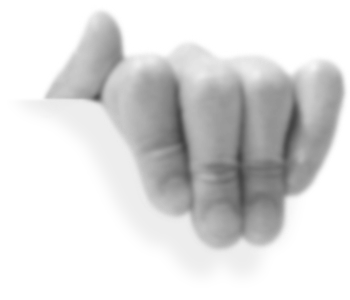
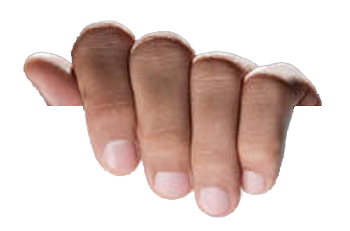
added hands and styling

diff --git a/index.html b/index.html
@@ -33,9 +33,14 @@
       </ul>
     </div>
 
-    <div class="parallax-container" data-parallax="scroll" data-bleed="10" data-speed="0.2" data-image-src="./img/nebula.jpg" data-natural-width="1400" data-natural-height="1400" style="height: 70vh;"></div>
+    <div class="parallax-container" data-parallax="scroll" data-bleed="10" data-speed="0.2" data-image-src="./img/top-half.jpg" data-natural-width="1024" data-natural-height="400" style="height: 70vh;"></div>
 
     <section class="container">
+      <div class="hands-container">
+        <img class="hands hand-right"src="img/hand-right.png" alt="">
+        <img class="hands hand-left"src="img/hand-left.png" alt="">
+      </div>
+
       <div class="content content-block">
 
         <div class="title-block">
@@ -159,7 +164,7 @@
       </div>
 
     </section>
-    <div class="parallax-container" data-parallax="scroll" data-bleed="10" data-speed="0.2" data-image-src="./img/nebula.jpg" data-natural-width="1400" data-natural-height="1400" style="height: 70vh;"></div>
+    <div class="parallax-container" data-parallax="scroll" data-bleed="10" data-speed="0.2" data-image-src="./img/bottom-half.jpg" data-natural-width="1024" data-natural-height="400" style="height: 70vh;"></div>
 
 
     <script src="js/ScrollMagic.min.js"></script>

diff --git a/styles.css b/styles.css
@@ -85,8 +85,6 @@ a, span, p  {
   line-height: 2em;
 }
 
-
-
 .menu-block-first {
   width: 100px;
   height: 30%;
@@ -248,6 +246,18 @@ a, span, p  {
   margin: auto;
 }
 
+.hands-container {
+  display: block;
+  margin: auto;
+  transform: translateY(-97px);
+  margin-bottom: -231px;
+
+}
+
+.hand-left {
+  float: right;
+}
+
 .title-block {
   text-align: center;
   margin: 8em 0;
@@ -264,7 +274,7 @@ a, span, p  {
 }
 
 .content-block.fade-in {
-  transform: translateY(50px);
+  transform: translateY(0px);
   opacity: 1;
   transition: all 1s ease-out;
 }
